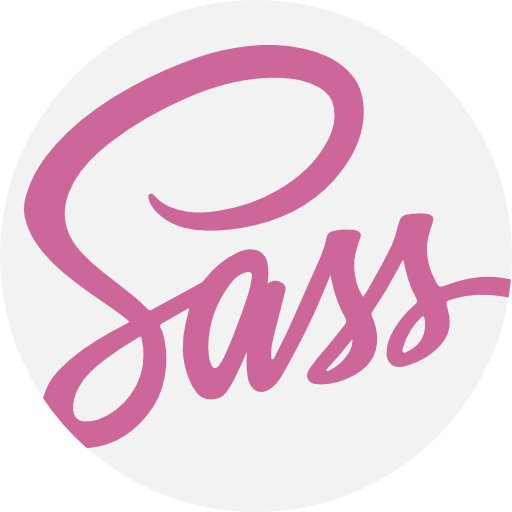
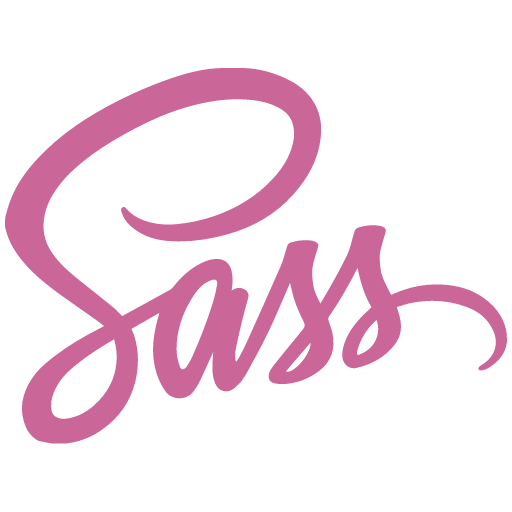
Cambiando Iconos, adaptando el proyecto, a teléfonos de 300px

diff --git a/index.html b/index.html
@@ -48,37 +48,39 @@
     </article>
     <h3 class="soft-skills">Habilidades blandas</h3>
     <ul class="container-softskills">
-        <li><img src="./Images/Iconos/alarm-clock.png" alt="">
+        <li><img src="./Images/Iconos/icons8-tiempo-80.png" alt="">
             <p>Gestión del tiempo</p>
         </li>
-        <li><img src="./Images/Iconos/group.png" alt="">
+        <li><img src="./Images/Iconos/icons8-equipo-96.png" alt="">
             <p>Trabajo en equipo</p>
         </li>
-        <li><img src="./Images/Iconos/chat.png" alt="">
+        <li><img src="./Images/Iconos/icons8-charla-100.png" alt="">
             <p>Buena Comunicación</p>
         </li>
         <li><img src="./Images/Iconos/resilience.png" alt="">
-            <p>Residencia</p>
+            <p>Resilencia</p>
         </li>
     </ul>
     <h3 class="Lenguajes">Lenguajes de programación y herramientas</h3>
     <ul class="languages-container">
-        <li><img src="./Images/Iconos/html.png" alt="">
+        <li><img src="./Images/Iconos/HTML5.png" alt="">
             <p>Html 5</p>
         </li>
-        <li><img src="./Images/Iconos/css-3.png" alt="">
+        <li><img src="./Images/Iconos/CSS3.png" alt="">
             <p>CSS 3</p>
         </li>
-        <li><img src="./Images/Iconos/wind.png" alt="">
+        <li><img src="./Images/Iconos/JavaScript.png" alt="">
+        <p>JavaScript</p></li>
+        <li><img src="./Images/Iconos/Tailwind CSS.png" alt="">
             <p>Tailwind</p>
         </li>
-        <li><img src="./Images/Iconos/sass.png" alt="">
+        <li><img src="./Images/Iconos/Sass.png" alt="">
             <p>Sass</p>
         </li>
-        <li><img src="./Images/Iconos/git.png" alt="">
+        <li><img src="./Images/Iconos/Git.png" alt="">
             <p>git</p>
         </li>
-        <li><img src="./Images/Iconos/visual-studio.png" alt="">
+        <li><img src="./Images/Iconos/Visual Studio Code (VS Code).png" alt="">
             <p class="visual-studio">Visual Studio Code</p>
         </li>
         <li><img src="./Images/Iconos/figma.png" alt="">

diff --git a/css/styles.css b/css/styles.css
@@ -6,7 +6,7 @@
 
 body {
   text-align: center;
-  font-size: 2rem;
+  font-size: 1.88rem;
   width: 100%;
   height: 100%;
 }
@@ -226,15 +226,18 @@ html {
   }
   .greeting {
     width: 300px;
-    margin-left: 5px;
+    margin-left: 35px;
+    font-size: 1.88rem;
   }
   .photo-main img {
     margin-right: 70px;
     margin: 0 auto;
   }
   .info-article {
-    font-size: 1.55rem;
-    padding-right: 30px;
+    font-size: 1.88rem;
+    margin: 0 auto;
+    width: 85%;
+    padding: 10px;
   }
   .container-softskills {
     display: -webkit-box;
@@ -252,22 +255,32 @@ html {
             align-items: center;
   }
   .container-softskills img {
-    width: 24vw;
+    width: 17vw;
     margin: 0 auto;
+    padding: 8px;
   }
   .container-softskills p {
     text-align: center;
-    font-size: 2rem;
+    font-size: 1.88rem;
+    padding: 8px;
   }
   li {
     list-style: none;
   }
+  .soft-skills,
+  .Lenguajes {
+    padding: 8px;
+  }
+  .Lenguajes {
+    font-size: 2rem;
+  }
   .languages-container img {
-    width: 24vw;
+    width: 17vw;
     margin: 0 auto;
+    padding: 8px;
   }
   .languages-container p {
-    font-size: 1.55rem;
+    font-size: 1.88rem;
     text-align: center;
     padding: 10px;
   }
@@ -294,6 +307,10 @@ html {
   .section-proyectos .Eco-store {
     width: 300px;
   }
+  .section-proyectos button {
+    width: 237px;
+    border-radius: 7px;
+  }
 }
 /* 300px a 400px*/
 @media screen and (min-width: 400px) and (max-width: 600px) {
@@ -318,9 +335,10 @@ html {
   .greeting {
     width: 350px;
     margin-left: 30px;
+    font-size: 1.88rem;
   }
   .info-article {
-    font-size: 2.2rem;
+    font-size: 1.88rem;
     width: 395px;
   }
   .container-softskills {

diff --git a/Sass/mediaqueries.scss b/Sass/mediaqueries.scss
@@ -14,7 +14,8 @@
 
     .greeting {
         width: 300px;
-        margin-left: 5px;
+        margin-left: 35px;
+        font-size: 1.88rem;
     }
 
     .photo-main img {
@@ -23,8 +24,10 @@
     }
 
     .info-article {
-        font-size: 1.55rem;
-        padding-right: 30px;
+        font-size: 1.88rem;
+        margin: 0 auto;
+        width: 85%;
+        padding: 10px;
     }
 
     .container-softskills {
@@ -35,26 +38,37 @@
     }
 
     .container-softskills img {
-        width: 24vw;
+        width: 17vw;
         margin: 0 auto;
+        padding: 8px;
     }
 
     .container-softskills p {
         text-align: center;
-        font-size: 2rem;
+        font-size: 1.88rem;
+        padding: 8px;
     }
 
     li {
         list-style: none;
     }
 
+    .soft-skills,
+    .Lenguajes{
+        padding: 8px;
+    }
+
+    .Lenguajes{
+        font-size: 2rem;
+    }
     .languages-container img {
-        width: 24vw;
+        width: 17vw;
         margin: 0 auto;
+        padding: 8px;
     }
 
     .languages-container p {
-        font-size: 1.55rem;
+        font-size: 1.88rem;
         text-align: center;
         padding: 10px;
     }
@@ -90,6 +104,10 @@
     .section-proyectos .Eco-store {
         width: 300px;
     }
+    .section-proyectos button{
+        width: 237px;
+        border-radius: 7px;
+    }
 }
 
 /* 300px a 400px*/
@@ -106,10 +124,12 @@
     .greeting {
         width: 350px;
         margin-left: 30px;
+        font-size: 1.88rem;
+
     }
 
     .info-article {
-        font-size: 2.2rem;
+        font-size: 1.88rem;
         width: 395px;
     }
     .container-softskills {

diff --git a/Sass/Principal.scss b/Sass/Principal.scss
@@ -4,7 +4,7 @@
 }
 body{
     text-align: center;
-    font-size: 2rem;
+    font-size: 1.88rem;
     width: 100%;
     height: 100%;
 }
